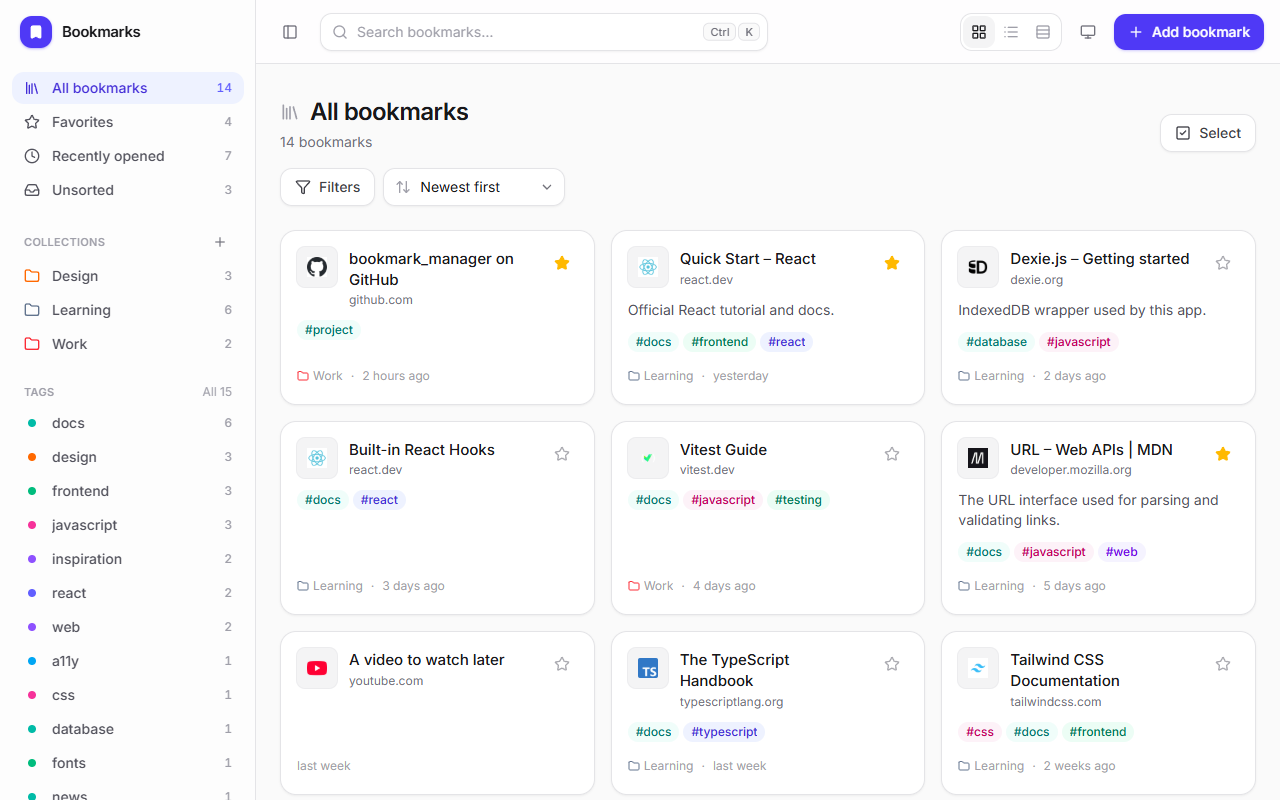
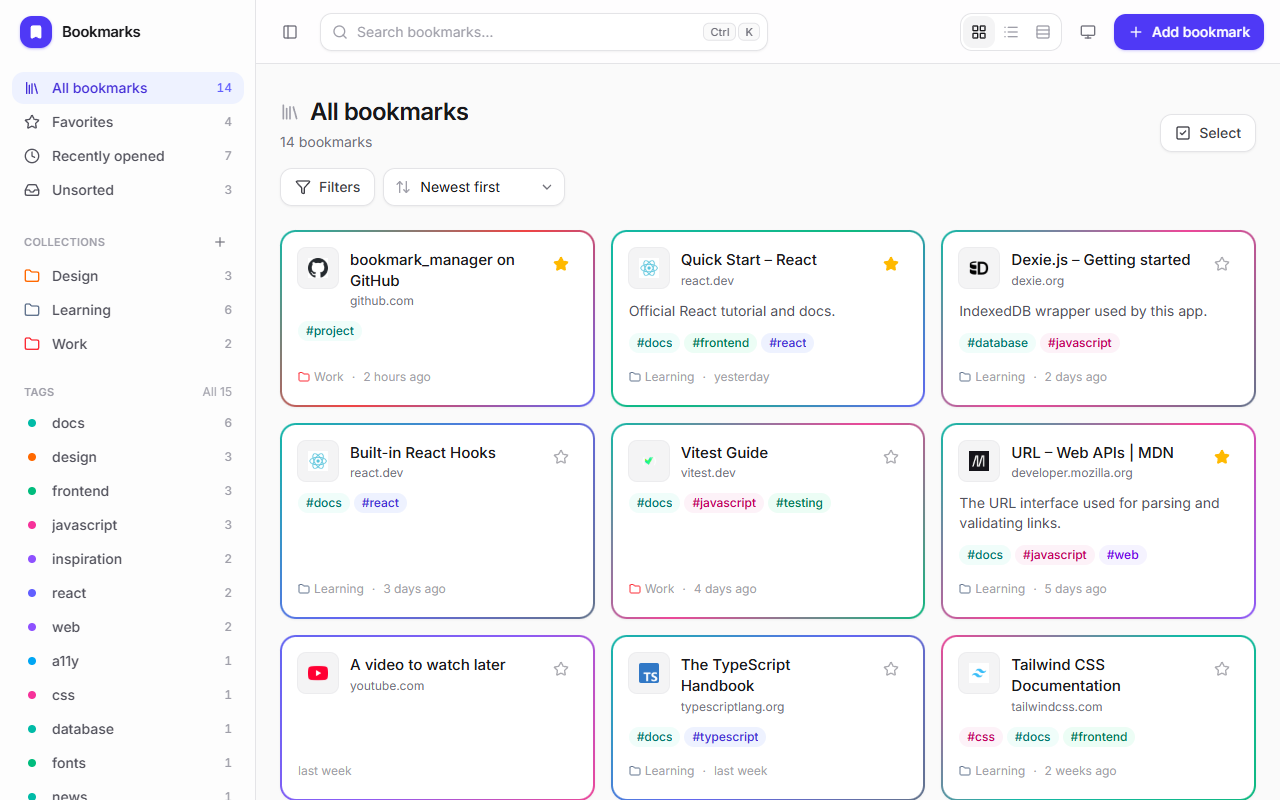
Add colorful gradient borders to grid cards
Each grid card's border is a gradient built from its own tag and
collection colors, topped up from an indigo/violet/pink palette so every
card has three colors. Works in light and dark themes and keeps the
selected-card tint. List and compact layouts are unchanged.

diff --git a/src/components/BookmarkCard.tsx b/src/components/BookmarkCard.tsx
@@ -1,9 +1,9 @@
 import clsx from 'clsx';
 import { Check, Copy, Folder, Pencil, Star, Trash } from 'lucide-react';
-import type { KeyboardEvent, MouseEvent } from 'react';
+import type { CSSProperties, KeyboardEvent, MouseEvent } from 'react';
 import type { ViewMode } from '../context/ui';
 import { useBookmarkActions } from '../hooks/useBookmarkActions';
-import { TEXT_CLASS } from '../lib/colors';
+import { gradientColors, TEXT_CLASS } from '../lib/colors';
 import { timeAgo } from '../lib/format';
 import type { BookmarkView } from '../lib/library';
 import { matchRanges, type SearchResult } from '../lib/search';
@@ -199,8 +199,21 @@ export default function BookmarkCard({
   );
 
   if (mode === 'grid') {
+    // Border gradient built from the card's own tag and collection colors.
+    const [g1, g2, g3] = gradientColors([
+      ...bookmark.tags.map((t) => t.color),
+      ...(bookmark.collection ? [bookmark.collection.color] : []),
+    ]);
     return (
-      <article {...shared} className={clsx(surface, 'flex flex-col rounded-2xl border p-4 shadow-xs hover:shadow-md')}>
+      <article
+        {...shared}
+        data-selected={selected}
+        style={{ '--g1': g1, '--g2': g2, '--g3': g3 } as CSSProperties}
+        className={clsx(
+          'gradient-border group relative flex cursor-default flex-col rounded-2xl p-4 shadow-xs outline-none transition hover:-translate-y-0.5 hover:shadow-lg focus-visible:ring-4 focus-visible:ring-indigo-500/25',
+          selected && 'ring-2 ring-indigo-500/40',
+        )}
+      >
         <div className="flex items-start gap-3">
           {icon}
           <div className="flex min-w-0 flex-1 flex-col gap-0.5 pt-0.5">

diff --git a/src/index.css b/src/index.css
@@ -77,6 +77,26 @@
   @apply inline-flex size-9 items-center justify-center rounded-xl text-zinc-500 transition outline-none hover:bg-zinc-100 hover:text-zinc-900 focus-visible:ring-4 focus-visible:ring-indigo-500/25 dark:text-zinc-400 dark:hover:bg-zinc-800 dark:hover:text-zinc-100;
 }
 
+/* Colorful gradient border: set --g1, --g2, --g3 inline. The inner layer paints
+   the card background, the outer layer shows through the transparent border. */
+@utility gradient-border {
+  --card-bg: #ffffff;
+  border: 2px solid transparent;
+  background:
+    linear-gradient(var(--card-bg), var(--card-bg)) padding-box,
+    linear-gradient(135deg, var(--g1), var(--g2), var(--g3)) border-box;
+
+  &[data-selected='true'] {
+    --card-bg: #eef2ff;
+  }
+  @variant dark {
+    --card-bg: #18181b;
+    &[data-selected='true'] {
+      --card-bg: color-mix(in oklab, #6366f1 15%, #18181b);
+    }
+  }
+}
+
 @utility kbd {
   @apply inline-flex min-w-5 items-center justify-center rounded-md border border-zinc-200 bg-zinc-50 px-1.5 font-sans text-[11px] font-medium text-zinc-500 dark:border-zinc-700 dark:bg-zinc-800 dark:text-zinc-400;
 }

diff --git a/src/lib/colors.ts b/src/lib/colors.ts
@@ -43,6 +43,28 @@ export const TEXT_CLASS: Record<ColorName, string> = {
   pink: 'text-pink-500',
 };
 
+/** Hex values (Tailwind 500 shades) for inline styles such as gradients. */
+export const HEX: Record<ColorName, string> = {
+  slate: '#64748b',
+  red: '#ef4444',
+  orange: '#f97316',
+  amber: '#f59e0b',
+  emerald: '#10b981',
+  teal: '#14b8a6',
+  sky: '#0ea5e9',
+  indigo: '#6366f1',
+  violet: '#8b5cf6',
+  pink: '#ec4899',
+};
+
+const GRADIENT_FALLBACK: ColorName[] = ['indigo', 'violet', 'pink', 'amber'];
+
+/** Three distinct colors for a gradient: the given ones first, topped up from a default palette. */
+export function gradientColors(colors: ColorName[]): [string, string, string] {
+  const picked = [...new Set([...colors, ...GRADIENT_FALLBACK])].slice(0, 3);
+  return [HEX[picked[0]], HEX[picked[1]], HEX[picked[2]]];
+}
+
 /** Stable color for a name, so a new tag always gets the same color. */
 export function colorForName(name: string): ColorName {
   let hash = 0;

diff --git a/tests/colors.test.ts b/tests/colors.test.ts
@@ -1,0 +1,14 @@
+import { describe, expect, it } from 'vitest';
+import { gradientColors, HEX } from '../src/lib/colors';
+
+describe('gradientColors', () => {
+  it('uses the given colors first, without duplicates', () => {
+    expect(gradientColors(['teal', 'pink', 'teal', 'amber'])).toEqual([HEX.teal, HEX.pink, HEX.amber]);
+  });
+
+  it('tops up from the default palette so there are always three colors', () => {
+    expect(gradientColors([])).toEqual([HEX.indigo, HEX.violet, HEX.pink]);
+    expect(gradientColors(['indigo'])).toEqual([HEX.indigo, HEX.violet, HEX.pink]);
+    expect(gradientColors(['emerald'])).toEqual([HEX.emerald, HEX.indigo, HEX.violet]);
+  });
+});
